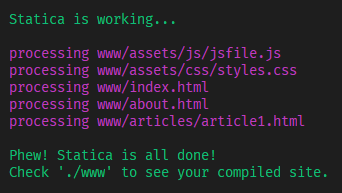
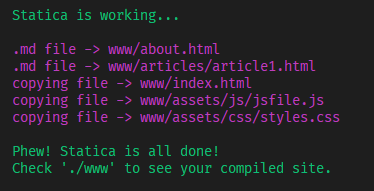
new terminal image

Changed region(s): [[0.0292, 0.2094, 0.9064, 0.6806], [0.0292, 0.7592, 0.9649, 0.9424], [0.0292, 0.0524, 0.5263, 0.1571]]

diff --git a/test-projects/two/www/about.html b/test-projects/two/www/about.html
@@ -1,0 +1,1 @@
+<!DOCTYPE html><html lang="en"><head>    <meta charset="UTF-8">    <meta name="viewport" content="width=device-width, initial-scale=1.0">    <meta http-equiv="X-UA-Compatible" content="ie=edge">    <title>Test</title></head><body>    <h1>This is my header</h1>        <footer>        This is my footer    </footer></body></html>

diff --git a/test-projects/two/www/articles/article1.html b/test-projects/two/www/articles/article1.html
@@ -1,0 +1,1 @@
+<!DOCTYPE html><html lang="en"><head>    <meta charset="UTF-8">    <meta name="viewport" content="width=device-width, initial-scale=1.0">    <meta http-equiv="X-UA-Compatible" content="ie=edge">    <title>Test</title></head><body>    <h1>This is my header</h1>        <footer>        This is my footer    </footer></body></html>
